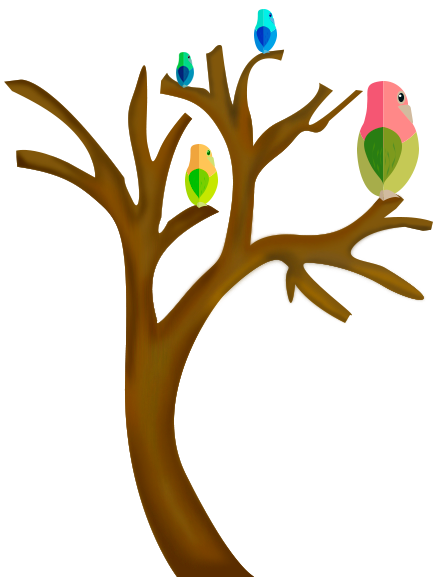
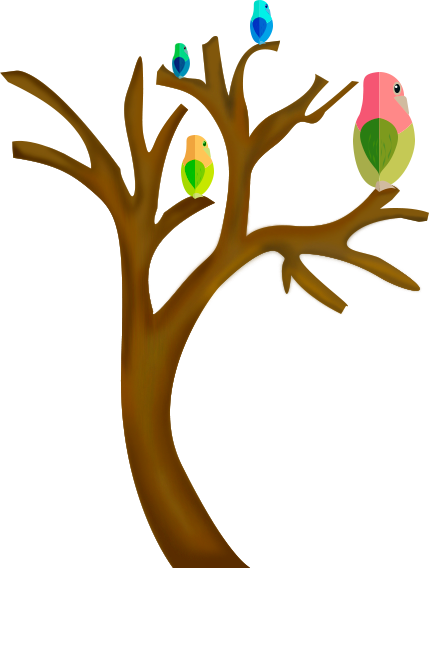
Leaves falling

Changed region(s): [[0.0, 0.0, 1.0, 1.0]]

diff --git a/css/main.css b/css/main.css
@@ -1,2 +1,2 @@
 /* normalize.css v3.0.2 | MIT License | git.io/normalize */
-html{font-family:sans-serif;-ms-text-size-adjust:100%;-webkit-text-size-adjust:100%}body{margin:0}article,aside,details,figcaption,figure,footer,header,hgroup,main,menu,nav,section,summary{display:block}audio,canvas,progress,video{display:inline-block;vertical-align:baseline}audio:not([controls]){display:none;height:0}[hidden],template{display:none}a{background-color:transparent;}a:active,a:hover{outline:0}abbr[title]{border-bottom:1px dotted}b,strong{font-weight:bold}dfn{font-style:italic}h1{font-size:2em;margin:.67em 0}mark{background:#ff0;color:#000}small{font-size:80%}sub,sup{font-size:75%;line-height:0;position:relative;vertical-align:baseline}sup{top:-.5em}sub{bottom:-.25em}img{border:0}svg:not(:root){overflow:hidden}figure{margin:1em 40px}hr{-moz-box-sizing:content-box;-webkit-box-sizing:content-box;-moz-box-sizing:content-box;box-sizing:content-box;height:0}pre{overflow:auto}code,kbd,pre,samp{font-family:monospace,monospace;font-size:1em}button,input,optgroup,select,textarea{color:inherit;font:inherit;margin:0}button{overflow:visible}button,select{text-transform:none}button,html input[type="button"],input[type="reset"],input[type="submit"]{-webkit-appearance:button;cursor:pointer}button[disabled],html input[disabled]{cursor:default}button::-moz-focus-inner,input::-moz-focus-inner{border:0;padding:0}input{line-height:normal}input[type="checkbox"],input[type="radio"]{-webkit-box-sizing:border-box;-moz-box-sizing:border-box;box-sizing:border-box;padding:0}input[type="number"]::-webkit-inner-spin-button,input[type="number"]::-webkit-outer-spin-button{height:auto}input[type="search"]{-webkit-appearance:textfield;-moz-box-sizing:content-box;-webkit-box-sizing:content-box;-webkit-box-sizing:content-box;-moz-box-sizing:content-box;box-sizing:content-box}input[type="search"]::-webkit-search-cancel-button,input[type="search"]::-webkit-search-decoration{-webkit-appearance:none}fieldset{border:1px solid #c0c0c0;margin:0 2px;padding:.35em .625em .75em}legend{border:0;padding:0}textarea{overflow:auto}optgroup{font-weight:bold}table{border-collapse:collapse;border-spacing:0}td,th{padding:0}body{font-size:16px;margin:0;padding:0}.container{position:relative;max-width:1800px;min-height:500px;overflow:hidden}#containerFirst{background:-webkit-linear-gradient(top, #a8d9ff, 75%, #fff);background:-moz-linear-gradient(top, #a8d9ff, 75%, #fff);background:-o-linear-gradient(top, #a8d9ff, 75%, #fff);background:-ms-linear-gradient(top, #a8d9ff, 75%, #fff);background:linear-gradient(to bottom, #a8d9ff, 75%, #fff)}.layer img{position:absolute}.imgCloud{top:0}.imgMountain{margin-left:-100px;margin-right:-100px}.birds{top:0;left:0}.imgTree{left:-100px;top:300px}.fallingLeaves{background-image:url("img/background/hojas.png");background:#f00;height:100px;width:100px;position:absolute}#menu{top:0;left:0}ul{padding:0;margin:0}.floating-right{-webkit-animation-name:floating-right;-moz-animation-name:floating-right;-o-animation-name:floating-right;-ms-animation-name:floating-right;animation-name:floating-right;-webkit-animation-duration:10s;-moz-animation-duration:10s;-o-animation-duration:10s;-ms-animation-duration:10s;animation-duration:10s;-webkit-animation-iteration-count:infinite;-moz-animation-iteration-count:infinite;-o-animation-iteration-count:infinite;-ms-animation-iteration-count:infinite;animation-iteration-count:infinite}.floating-left{-webkit-animation-name:floating-left;-moz-animation-name:floating-left;-o-animation-name:floating-left;-ms-animation-name:floating-left;animation-name:floating-left;-webkit-animation-duration:10s;-moz-animation-duration:10s;-o-animation-duration:10s;-ms-animation-duration:10s;animation-duration:10s;-webkit-animation-iteration-count:infinite;-moz-animation-iteration-count:infinite;-o-animation-iteration-count:infinite;-ms-animation-iteration-count:infinite;animation-iteration-count:infinite}.hatch{-webkit-animation-name:hatch;-moz-animation-name:hatch;-o-animation-name:hatch;-ms-animation-name:hatch;animation-name:hatch;-webkit-animation-duration:15s;-moz-animation-duration:15s;-o-animation-duration:15s;-ms-animation-duration:15s;animation-duration:15s;-webkit-animation-timing-function:ease-in-out;-moz-animation-timing-function:ease-in-out;-o-animation-timing-function:ease-in-out;-ms-animation-timing-function:ease-in-out;animation-timing-function:ease-in-out;-webkit-animation-iteration-count:infinite;-moz-animation-iteration-count:infinite;-o-animation-iteration-count:infinite;-ms-animation-iteration-count:infinite;animation-iteration-count:infinite;-webkit-transform-origin:50% 100%;-moz-transform-origin:50% 100%;-o-transform-origin:50% 100%;-ms-transform-origin:50% 100%;transform-origin:50% 100%;visibility:visible}.slideRight{-webkit-animation-name:slideRight;-moz-animation-name:slideRight;-o-animation-name:slideRight;-ms-animation-name:slideRight;animation-name:slideRight;-webkit-animation-duration:20s;-moz-animation-duration:20s;-o-animation-duration:20s;-ms-animation-duration:20s;animation-duration:20s;-webkit-animation-timing-function:ease-in-out;-moz-animation-timing-function:ease-in-out;-o-animation-timing-function:ease-in-out;-ms-animation-timing-function:ease-in-out;animation-timing-function:ease-in-out;-webkit-animation-iteration-count:infinite;-moz-animation-iteration-count:infinite;-o-animation-iteration-count:infinite;-ms-animation-iteration-count:infinite;animation-iteration-count:infinite;visibility:visible}.falling{-webkit-animation-name:falling;-moz-animation-name:falling;-o-animation-name:falling;-ms-animation-name:falling;animation-name:falling;-webkit-animation-duration:8s;-moz-animation-duration:8s;-o-animation-duration:8s;-ms-animation-duration:8s;animation-duration:8s;-webkit-animation-iteration-count:infinite;-moz-animation-iteration-count:infinite;-o-animation-iteration-count:infinite;-ms-animation-iteration-count:infinite;animation-iteration-count:infinite;-webkit-animation-timing-function:linear;-moz-animation-timing-function:linear;-o-animation-timing-function:linear;-ms-animation-timing-function:linear;animation-timing-function:linear;-webkit-animation-direction:normal;-moz-animation-direction:normal;-o-animation-direction:normal;-ms-animation-direction:normal;animation-direction:normal}@-moz-keyframes floating-right{0%{-webkit-transform:translate(0%);-moz-transform:translate(0%);-o-transform:translate(0%);-ms-transform:translate(0%);transform:translate(0%)}50%{-webkit-transform:translate(8%);-moz-transform:translate(8%);-o-transform:translate(8%);-ms-transform:translate(8%);transform:translate(8%)}100%{-webkit-transform:translate(0%);-moz-transform:translate(0%);-o-transform:translate(0%);-ms-transform:translate(0%);transform:translate(0%)}}@-webkit-keyframes floating-right{0%{-webkit-transform:translate(0%);-moz-transform:translate(0%);-o-transform:translate(0%);-ms-transform:translate(0%);transform:translate(0%)}50%{-webkit-transform:translate(8%);-moz-transform:translate(8%);-o-transform:translate(8%);-ms-transform:translate(8%);transform:translate(8%)}100%{-webkit-transform:translate(0%);-moz-transform:translate(0%);-o-transform:translate(0%);-ms-transform:translate(0%);transform:translate(0%)}}@-o-keyframes floating-right{0%{-webkit-transform:translate(0%);-moz-transform:translate(0%);-o-transform:translate(0%);-ms-transform:translate(0%);transform:translate(0%)}50%{-webkit-transform:translate(8%);-moz-transform:translate(8%);-o-transform:translate(8%);-ms-transform:translate(8%);transform:translate(8%)}100%{-webkit-transform:translate(0%);-moz-transform:translate(0%);-o-transform:translate(0%);-ms-transform:translate(0%);transform:translate(0%)}}@keyframes floating-right{0%{-webkit-transform:translate(0%);-moz-transform:translate(0%);-o-transform:translate(0%);-ms-transform:translate(0%);transform:translate(0%)}50%{-webkit-transform:translate(8%);-moz-transform:translate(8%);-o-transform:translate(8%);-ms-transform:translate(8%);transform:translate(8%)}100%{-webkit-transform:translate(0%);-moz-transform:translate(0%);-o-transform:translate(0%);-ms-transform:translate(0%);transform:translate(0%)}}@-moz-keyframes floating-left{0%{-webkit-transform:translate(0%);-moz-transform:translate(0%);-o-transform:translate(0%);-ms-transform:translate(0%);transform:translate(0%)}50%{-webkit-transform:translate(-8%);-moz-transform:translate(-8%);-o-transform:translate(-8%);-ms-transform:translate(-8%);transform:translate(-8%)}100%{-webkit-transform:translate(0%);-moz-transform:translate(0%);-o-transform:translate(0%);-ms-transform:translate(0%);transform:translate(0%)}}@-webkit-keyframes floating-left{0%{-webkit-transform:translate(0%);-moz-transform:translate(0%);-o-transform:translate(0%);-ms-transform:translate(0%);transform:translate(0%)}50%{-webkit-transform:translate(-8%);-moz-transform:translate(-8%);-o-transform:translate(-8%);-ms-transform:translate(-8%);transform:translate(-8%)}100%{-webkit-transform:translate(0%);-moz-transform:translate(0%);-o-transform:translate(0%);-ms-transform:translate(0%);transform:translate(0%)}}@-o-keyframes floating-left{0%{-webkit-transform:translate(0%);-moz-transform:translate(0%);-o-transform:translate(0%);-ms-transform:translate(0%);transform:translate(0%)}50%{-webkit-transform:translate(-8%);-moz-transform:translate(-8%);-o-transform:translate(-8%);-ms-transform:translate(-8%);transform:translate(-8%)}100%{-webkit-transform:translate(0%);-moz-transform:translate(0%);-o-transform:translate(0%);-ms-transform:translate(0%);transform:translate(0%)}}@keyframes floating-left{0%{-webkit-transform:translate(0%);-moz-transform:translate(0%);-o-transform:translate(0%);-ms-transform:translate(0%);transform:translate(0%)}50%{-webkit-transform:translate(-8%);-moz-transform:translate(-8%);-o-transform:translate(-8%);-ms-transform:translate(-8%);transform:translate(-8%)}100%{-webkit-transform:translate(0%);-moz-transform:translate(0%);-o-transform:translate(0%);-ms-transform:translate(0%);transform:translate(0%)}}@-moz-keyframes hatch{0%{-webkit-transform:rotate(0);-moz-transform:rotate(0);-o-transform:rotate(0);-ms-transform:rotate(0);transform:rotate(0)}20%{-webkit-transform:rotate(-2deg);-moz-transform:rotate(-2deg);-o-transform:rotate(-2deg);-ms-transform:rotate(-2deg);transform:rotate(-2deg)}35%{-webkit-transform:rotate(2deg);-moz-transform:rotate(2deg);-o-transform:rotate(2deg);-ms-transform:rotate(2deg);transform:rotate(2deg)}50%{-webkit-transform:rotate(-2deg);-moz-transform:rotate(-2deg);-o-transform:rotate(-2deg);-ms-transform:rotate(-2deg);transform:rotate(-2deg)}65%{-webkit-transform:rotate(1deg);-moz-transform:rotate(1deg);-o-transform:rotate(1deg);-ms-transform:rotate(1deg);transform:rotate(1deg)}80%{-webkit-transform:rotate(-1deg);-moz-transform:rotate(-1deg);-o-transform:rotate(-1deg);-ms-transform:rotate(-1deg);transform:rotate(-1deg)}100%{-webkit-transform:rotate(0);-moz-transform:rotate(0);-o-transform:rotate(0);-ms-transform:rotate(0);transform:rotate(0)}}@-webkit-keyframes hatch{0%{-webkit-transform:rotate(0);-moz-transform:rotate(0);-o-transform:rotate(0);-ms-transform:rotate(0);transform:rotate(0)}20%{-webkit-transform:rotate(-2deg);-moz-transform:rotate(-2deg);-o-transform:rotate(-2deg);-ms-transform:rotate(-2deg);transform:rotate(-2deg)}35%{-webkit-transform:rotate(2deg);-moz-transform:rotate(2deg);-o-transform:rotate(2deg);-ms-transform:rotate(2deg);transform:rotate(2deg)}50%{-webkit-transform:rotate(-2deg);-moz-transform:rotate(-2deg);-o-transform:rotate(-2deg);-ms-transform:rotate(-2deg);transform:rotate(-2deg)}65%{-webkit-transform:rotate(1deg);-moz-transform:rotate(1deg);-o-transform:rotate(1deg);-ms-transform:rotate(1deg);transform:rotate(1deg)}80%{-webkit-transform:rotate(-1deg);-moz-transform:rotate(-1deg);-o-transform:rotate(-1deg);-ms-transform:rotate(-1deg);transform:rotate(-1deg)}100%{-webkit-transform:rotate(0);-moz-transform:rotate(0);-o-transform:rotate(0);-ms-transform:rotate(0);transform:rotate(0)}}@-o-keyframes hatch{0%{-webkit-transform:rotate(0);-moz-transform:rotate(0);-o-transform:rotate(0);-ms-transform:rotate(0);transform:rotate(0)}20%{-webkit-transform:rotate(-2deg);-moz-transform:rotate(-2deg);-o-transform:rotate(-2deg);-ms-transform:rotate(-2deg);transform:rotate(-2deg)}35%{-webkit-transform:rotate(2deg);-moz-transform:rotate(2deg);-o-transform:rotate(2deg);-ms-transform:rotate(2deg);transform:rotate(2deg)}50%{-webkit-transform:rotate(-2deg);-moz-transform:rotate(-2deg);-o-transform:rotate(-2deg);-ms-transform:rotate(-2deg);transform:rotate(-2deg)}65%{-webkit-transform:rotate(1deg);-moz-transform:rotate(1deg);-o-transform:rotate(1deg);-ms-transform:rotate(1deg);transform:rotate(1deg)}80%{-webkit-transform:rotate(-1deg);-moz-transform:rotate(-1deg);-o-transform:rotate(-1deg);-ms-transform:rotate(-1deg);transform:rotate(-1deg)}100%{-webkit-transform:rotate(0);-moz-transform:rotate(0);-o-transform:rotate(0);-ms-transform:rotate(0);transform:rotate(0)}}@keyframes hatch{0%{-webkit-transform:rotate(0);-moz-transform:rotate(0);-o-transform:rotate(0);-ms-transform:rotate(0);transform:rotate(0)}20%{-webkit-transform:rotate(-2deg);-moz-transform:rotate(-2deg);-o-transform:rotate(-2deg);-ms-transform:rotate(-2deg);transform:rotate(-2deg)}35%{-webkit-transform:rotate(2deg);-moz-transform:rotate(2deg);-o-transform:rotate(2deg);-ms-transform:rotate(2deg);transform:rotate(2deg)}50%{-webkit-transform:rotate(-2deg);-moz-transform:rotate(-2deg);-o-transform:rotate(-2deg);-ms-transform:rotate(-2deg);transform:rotate(-2deg)}65%{-webkit-transform:rotate(1deg);-moz-transform:rotate(1deg);-o-transform:rotate(1deg);-ms-transform:rotate(1deg);transform:rotate(1deg)}80%{-webkit-transform:rotate(-1deg);-moz-transform:rotate(-1deg);-o-transform:rotate(-1deg);-ms-transform:rotate(-1deg);transform:rotate(-1deg)}100%{-webkit-transform:rotate(0);-moz-transform:rotate(0);-o-transform:rotate(0);-ms-transform:rotate(0);transform:rotate(0)}}@-moz-keyframes slideRight{0%{-webkit-transform:translateX(0%) scale(.5);-moz-transform:translateX(0%) scale(.5);-o-transform:translateX(0%) scale(.5);-ms-transform:translateX(0%) scale(.5);transform:translateX(0%) scale(.5);opacity:0;-ms-filter:"progid:DXImageTransform.Microsoft.Alpha(Opacity=0)";filter:alpha(opacity=0)}100%{-webkit-transform:translateX(100%) scale(1);-moz-transform:translateX(100%) scale(1);-o-transform:translateX(100%) scale(1);-ms-transform:translateX(100%) scale(1);transform:translateX(100%) scale(1);opacity:1;-ms-filter:none;filter:none}}@-webkit-keyframes slideRight{0%{-webkit-transform:translateX(0%) scale(.5);-moz-transform:translateX(0%) scale(.5);-o-transform:translateX(0%) scale(.5);-ms-transform:translateX(0%) scale(.5);transform:translateX(0%) scale(.5);opacity:0;-ms-filter:"progid:DXImageTransform.Microsoft.Alpha(Opacity=0)";filter:alpha(opacity=0)}100%{-webkit-transform:translateX(100%) scale(1);-moz-transform:translateX(100%) scale(1);-o-transform:translateX(100%) scale(1);-ms-transform:translateX(100%) scale(1);transform:translateX(100%) scale(1);opacity:1;-ms-filter:none;filter:none}}@-o-keyframes slideRight{0%{-webkit-transform:translateX(0%) scale(.5);-moz-transform:translateX(0%) scale(.5);-o-transform:translateX(0%) scale(.5);-ms-transform:translateX(0%) scale(.5);transform:translateX(0%) scale(.5);opacity:0;-ms-filter:"progid:DXImageTransform.Microsoft.Alpha(Opacity=0)";filter:alpha(opacity=0)}100%{-webkit-transform:translateX(100%) scale(1);-moz-transform:translateX(100%) scale(1);-o-transform:translateX(100%) scale(1);-ms-transform:translateX(100%) scale(1);transform:translateX(100%) scale(1);opacity:1;-ms-filter:none;filter:none}}@keyframes slideRight{0%{-webkit-transform:translateX(0%) scale(.5);-moz-transform:translateX(0%) scale(.5);-o-transform:translateX(0%) scale(.5);-ms-transform:translateX(0%) scale(.5);transform:translateX(0%) scale(.5);opacity:0;-ms-filter:"progid:DXImageTransform.Microsoft.Alpha(Opacity=0)";filter:alpha(opacity=0)}100%{-webkit-transform:translateX(100%) scale(1);-moz-transform:translateX(100%) scale(1);-o-transform:translateX(100%) scale(1);-ms-transform:translateX(100%) scale(1);transform:translateX(100%) scale(1);opacity:1;-ms-filter:none;filter:none}}@-moz-keyframes falling{0%{opacity:1;-ms-filter:none;filter:none;-webkit-transform:translateY(-10%);-moz-transform:translateY(-10%);-o-transform:translateY(-10%);-ms-transform:translateY(-10%);transform:translateY(-10%)}100%{opacity:.5;-ms-filter:"progid:DXImageTransform.Microsoft.Alpha(Opacity=50)";filter:alpha(opacity=50);-webkit-transform:translateY(100%);-moz-transform:translateY(100%);-o-transform:translateY(100%);-ms-transform:translateY(100%);transform:translateY(100%)}}@-webkit-keyframes falling{0%{opacity:1;-ms-filter:none;filter:none;-webkit-transform:translateY(-10%);-moz-transform:translateY(-10%);-o-transform:translateY(-10%);-ms-transform:translateY(-10%);transform:translateY(-10%)}100%{opacity:.5;-ms-filter:"progid:DXImageTransform.Microsoft.Alpha(Opacity=50)";filter:alpha(opacity=50);-webkit-transform:translateY(100%);-moz-transform:translateY(100%);-o-transform:translateY(100%);-ms-transform:translateY(100%);transform:translateY(100%)}}@-o-keyframes falling{0%{opacity:1;-ms-filter:none;filter:none;-webkit-transform:translateY(-10%);-moz-transform:translateY(-10%);-o-transform:translateY(-10%);-ms-transform:translateY(-10%);transform:translateY(-10%)}100%{opacity:.5;-ms-filter:"progid:DXImageTransform.Microsoft.Alpha(Opacity=50)";filter:alpha(opacity=50);-webkit-transform:translateY(100%);-moz-transform:translateY(100%);-o-transform:translateY(100%);-ms-transform:translateY(100%);transform:translateY(100%)}}@keyframes falling{0%{opacity:1;-ms-filter:none;filter:none;-webkit-transform:translateY(-10%);-moz-transform:translateY(-10%);-o-transform:translateY(-10%);-ms-transform:translateY(-10%);transform:translateY(-10%)}100%{opacity:.5;-ms-filter:"progid:DXImageTransform.Microsoft.Alpha(Opacity=50)";filter:alpha(opacity=50);-webkit-transform:translateY(100%);-moz-transform:translateY(100%);-o-transform:translateY(100%);-ms-transform:translateY(100%);transform:translateY(100%)}}
+html{font-family:sans-serif;-ms-text-size-adjust:100%;-webkit-text-size-adjust:100%}body{margin:0}article,aside,details,figcaption,figure,footer,header,hgroup,main,menu,nav,section,summary{display:block}audio,canvas,progress,video{display:inline-block;vertical-align:baseline}audio:not([controls]){display:none;height:0}[hidden],template{display:none}a{background-color:transparent;}a:active,a:hover{outline:0}abbr[title]{border-bottom:1px dotted}b,strong{font-weight:bold}dfn{font-style:italic}h1{font-size:2em;margin:.67em 0}mark{background:#ff0;color:#000}small{font-size:80%}sub,sup{font-size:75%;line-height:0;position:relative;vertical-align:baseline}sup{top:-.5em}sub{bottom:-.25em}img{border:0}svg:not(:root){overflow:hidden}figure{margin:1em 40px}hr{-moz-box-sizing:content-box;-webkit-box-sizing:content-box;-moz-box-sizing:content-box;box-sizing:content-box;height:0}pre{overflow:auto}code,kbd,pre,samp{font-family:monospace,monospace;font-size:1em}button,input,optgroup,select,textarea{color:inherit;font:inherit;margin:0}button{overflow:visible}button,select{text-transform:none}button,html input[type="button"],input[type="reset"],input[type="submit"]{-webkit-appearance:button;cursor:pointer}button[disabled],html input[disabled]{cursor:default}button::-moz-focus-inner,input::-moz-focus-inner{border:0;padding:0}input{line-height:normal}input[type="checkbox"],input[type="radio"]{-webkit-box-sizing:border-box;-moz-box-sizing:border-box;box-sizing:border-box;padding:0}input[type="number"]::-webkit-inner-spin-button,input[type="number"]::-webkit-outer-spin-button{height:auto}input[type="search"]{-webkit-appearance:textfield;-moz-box-sizing:content-box;-webkit-box-sizing:content-box;-webkit-box-sizing:content-box;-moz-box-sizing:content-box;box-sizing:content-box}input[type="search"]::-webkit-search-cancel-button,input[type="search"]::-webkit-search-decoration{-webkit-appearance:none}fieldset{border:1px solid #c0c0c0;margin:0 2px;padding:.35em .625em .75em}legend{border:0;padding:0}textarea{overflow:auto}optgroup{font-weight:bold}table{border-collapse:collapse;border-spacing:0}td,th{padding:0}body{font-size:16px;margin:0;padding:0}.container{position:relative;max-width:1800px;min-height:500px;overflow:hidden}#containerFirst{background:-webkit-linear-gradient(top, #a8d9ff, 75%, #fff);background:-moz-linear-gradient(top, #a8d9ff, 75%, #fff);background:-o-linear-gradient(top, #a8d9ff, 75%, #fff);background:-ms-linear-gradient(top, #a8d9ff, 75%, #fff);background:linear-gradient(to bottom, #a8d9ff, 75%, #fff)}.layer img{position:absolute}.imgCloud{top:0}.imgMountain{margin-left:-100px;margin-right:-100px}.birds{top:0;left:0}.imgTree{left:-100px;top:15em;width:20em}#fallingLeaves{background-image:url("../img/background/hojas.png");background-repeat:no-repeat;position:absolute;left:0}#menu{top:0;left:0}ul{padding:0;margin:0}.floating-right{-webkit-animation-name:floating-right;-moz-animation-name:floating-right;-o-animation-name:floating-right;-ms-animation-name:floating-right;animation-name:floating-right;-webkit-animation-duration:10s;-moz-animation-duration:10s;-o-animation-duration:10s;-ms-animation-duration:10s;animation-duration:10s;-webkit-animation-iteration-count:infinite;-moz-animation-iteration-count:infinite;-o-animation-iteration-count:infinite;-ms-animation-iteration-count:infinite;animation-iteration-count:infinite}.floating-left{-webkit-animation-name:floating-left;-moz-animation-name:floating-left;-o-animation-name:floating-left;-ms-animation-name:floating-left;animation-name:floating-left;-webkit-animation-duration:10s;-moz-animation-duration:10s;-o-animation-duration:10s;-ms-animation-duration:10s;animation-duration:10s;-webkit-animation-iteration-count:infinite;-moz-animation-iteration-count:infinite;-o-animation-iteration-count:infinite;-ms-animation-iteration-count:infinite;animation-iteration-count:infinite}.hatch{-webkit-animation-name:hatch;-moz-animation-name:hatch;-o-animation-name:hatch;-ms-animation-name:hatch;animation-name:hatch;-webkit-animation-duration:15s;-moz-animation-duration:15s;-o-animation-duration:15s;-ms-animation-duration:15s;animation-duration:15s;-webkit-animation-timing-function:ease-in-out;-moz-animation-timing-function:ease-in-out;-o-animation-timing-function:ease-in-out;-ms-animation-timing-function:ease-in-out;animation-timing-function:ease-in-out;-webkit-animation-iteration-count:infinite;-moz-animation-iteration-count:infinite;-o-animation-iteration-count:infinite;-ms-animation-iteration-count:infinite;animation-iteration-count:infinite;-webkit-transform-origin:50% 100%;-moz-transform-origin:50% 100%;-o-transform-origin:50% 100%;-ms-transform-origin:50% 100%;transform-origin:50% 100%;visibility:visible}.slideRight{-webkit-animation-name:slideRight;-moz-animation-name:slideRight;-o-animation-name:slideRight;-ms-animation-name:slideRight;animation-name:slideRight;-webkit-animation-duration:20s;-moz-animation-duration:20s;-o-animation-duration:20s;-ms-animation-duration:20s;animation-duration:20s;-webkit-animation-timing-function:ease-in-out;-moz-animation-timing-function:ease-in-out;-o-animation-timing-function:ease-in-out;-ms-animation-timing-function:ease-in-out;animation-timing-function:ease-in-out;-webkit-animation-iteration-count:infinite;-moz-animation-iteration-count:infinite;-o-animation-iteration-count:infinite;-ms-animation-iteration-count:infinite;animation-iteration-count:infinite;visibility:visible}.falling{-webkit-animation-name:falling;-moz-animation-name:falling;-o-animation-name:falling;-ms-animation-name:falling;animation-name:falling;-webkit-animation-duration:8s;-moz-animation-duration:8s;-o-animation-duration:8s;-ms-animation-duration:8s;animation-duration:8s;-webkit-animation-iteration-count:infinite;-moz-animation-iteration-count:infinite;-o-animation-iteration-count:infinite;-ms-animation-iteration-count:infinite;animation-iteration-count:infinite;-webkit-animation-timing-function:linear;-moz-animation-timing-function:linear;-o-animation-timing-function:linear;-ms-animation-timing-function:linear;animation-timing-function:linear;-webkit-animation-direction:normal;-moz-animation-direction:normal;-o-animation-direction:normal;-ms-animation-direction:normal;animation-direction:normal}@-moz-keyframes floating-right{0%{-webkit-transform:translate(0%);-moz-transform:translate(0%);-o-transform:translate(0%);-ms-transform:translate(0%);transform:translate(0%)}50%{-webkit-transform:translate(8%);-moz-transform:translate(8%);-o-transform:translate(8%);-ms-transform:translate(8%);transform:translate(8%)}100%{-webkit-transform:translate(0%);-moz-transform:translate(0%);-o-transform:translate(0%);-ms-transform:translate(0%);transform:translate(0%)}}@-webkit-keyframes floating-right{0%{-webkit-transform:translate(0%);-moz-transform:translate(0%);-o-transform:translate(0%);-ms-transform:translate(0%);transform:translate(0%)}50%{-webkit-transform:translate(8%);-moz-transform:translate(8%);-o-transform:translate(8%);-ms-transform:translate(8%);transform:translate(8%)}100%{-webkit-transform:translate(0%);-moz-transform:translate(0%);-o-transform:translate(0%);-ms-transform:translate(0%);transform:translate(0%)}}@-o-keyframes floating-right{0%{-webkit-transform:translate(0%);-moz-transform:translate(0%);-o-transform:translate(0%);-ms-transform:translate(0%);transform:translate(0%)}50%{-webkit-transform:translate(8%);-moz-transform:translate(8%);-o-transform:translate(8%);-ms-transform:translate(8%);transform:translate(8%)}100%{-webkit-transform:translate(0%);-moz-transform:translate(0%);-o-transform:translate(0%);-ms-transform:translate(0%);transform:translate(0%)}}@keyframes floating-right{0%{-webkit-transform:translate(0%);-moz-transform:translate(0%);-o-transform:translate(0%);-ms-transform:translate(0%);transform:translate(0%)}50%{-webkit-transform:translate(8%);-moz-transform:translate(8%);-o-transform:translate(8%);-ms-transform:translate(8%);transform:translate(8%)}100%{-webkit-transform:translate(0%);-moz-transform:translate(0%);-o-transform:translate(0%);-ms-transform:translate(0%);transform:translate(0%)}}@-moz-keyframes floating-left{0%{-webkit-transform:translate(0%);-moz-transform:translate(0%);-o-transform:translate(0%);-ms-transform:translate(0%);transform:translate(0%)}50%{-webkit-transform:translate(-8%);-moz-transform:translate(-8%);-o-transform:translate(-8%);-ms-transform:translate(-8%);transform:translate(-8%)}100%{-webkit-transform:translate(0%);-moz-transform:translate(0%);-o-transform:translate(0%);-ms-transform:translate(0%);transform:translate(0%)}}@-webkit-keyframes floating-left{0%{-webkit-transform:translate(0%);-moz-transform:translate(0%);-o-transform:translate(0%);-ms-transform:translate(0%);transform:translate(0%)}50%{-webkit-transform:translate(-8%);-moz-transform:translate(-8%);-o-transform:translate(-8%);-ms-transform:translate(-8%);transform:translate(-8%)}100%{-webkit-transform:translate(0%);-moz-transform:translate(0%);-o-transform:translate(0%);-ms-transform:translate(0%);transform:translate(0%)}}@-o-keyframes floating-left{0%{-webkit-transform:translate(0%);-moz-transform:translate(0%);-o-transform:translate(0%);-ms-transform:translate(0%);transform:translate(0%)}50%{-webkit-transform:translate(-8%);-moz-transform:translate(-8%);-o-transform:translate(-8%);-ms-transform:translate(-8%);transform:translate(-8%)}100%{-webkit-transform:translate(0%);-moz-transform:translate(0%);-o-transform:translate(0%);-ms-transform:translate(0%);transform:translate(0%)}}@keyframes floating-left{0%{-webkit-transform:translate(0%);-moz-transform:translate(0%);-o-transform:translate(0%);-ms-transform:translate(0%);transform:translate(0%)}50%{-webkit-transform:translate(-8%);-moz-transform:translate(-8%);-o-transform:translate(-8%);-ms-transform:translate(-8%);transform:translate(-8%)}100%{-webkit-transform:translate(0%);-moz-transform:translate(0%);-o-transform:translate(0%);-ms-transform:translate(0%);transform:translate(0%)}}@-moz-keyframes hatch{0%{-webkit-transform:rotate(0);-moz-transform:rotate(0);-o-transform:rotate(0);-ms-transform:rotate(0);transform:rotate(0)}20%{-webkit-transform:rotate(-2deg);-moz-transform:rotate(-2deg);-o-transform:rotate(-2deg);-ms-transform:rotate(-2deg);transform:rotate(-2deg)}35%{-webkit-transform:rotate(2deg);-moz-transform:rotate(2deg);-o-transform:rotate(2deg);-ms-transform:rotate(2deg);transform:rotate(2deg)}50%{-webkit-transform:rotate(-2deg);-moz-transform:rotate(-2deg);-o-transform:rotate(-2deg);-ms-transform:rotate(-2deg);transform:rotate(-2deg)}65%{-webkit-transform:rotate(1deg);-moz-transform:rotate(1deg);-o-transform:rotate(1deg);-ms-transform:rotate(1deg);transform:rotate(1deg)}80%{-webkit-transform:rotate(-1deg);-moz-transform:rotate(-1deg);-o-transform:rotate(-1deg);-ms-transform:rotate(-1deg);transform:rotate(-1deg)}100%{-webkit-transform:rotate(0);-moz-transform:rotate(0);-o-transform:rotate(0);-ms-transform:rotate(0);transform:rotate(0)}}@-webkit-keyframes hatch{0%{-webkit-transform:rotate(0);-moz-transform:rotate(0);-o-transform:rotate(0);-ms-transform:rotate(0);transform:rotate(0)}20%{-webkit-transform:rotate(-2deg);-moz-transform:rotate(-2deg);-o-transform:rotate(-2deg);-ms-transform:rotate(-2deg);transform:rotate(-2deg)}35%{-webkit-transform:rotate(2deg);-moz-transform:rotate(2deg);-o-transform:rotate(2deg);-ms-transform:rotate(2deg);transform:rotate(2deg)}50%{-webkit-transform:rotate(-2deg);-moz-transform:rotate(-2deg);-o-transform:rotate(-2deg);-ms-transform:rotate(-2deg);transform:rotate(-2deg)}65%{-webkit-transform:rotate(1deg);-moz-transform:rotate(1deg);-o-transform:rotate(1deg);-ms-transform:rotate(1deg);transform:rotate(1deg)}80%{-webkit-transform:rotate(-1deg);-moz-transform:rotate(-1deg);-o-transform:rotate(-1deg);-ms-transform:rotate(-1deg);transform:rotate(-1deg)}100%{-webkit-transform:rotate(0);-moz-transform:rotate(0);-o-transform:rotate(0);-ms-transform:rotate(0);transform:rotate(0)}}@-o-keyframes hatch{0%{-webkit-transform:rotate(0);-moz-transform:rotate(0);-o-transform:rotate(0);-ms-transform:rotate(0);transform:rotate(0)}20%{-webkit-transform:rotate(-2deg);-moz-transform:rotate(-2deg);-o-transform:rotate(-2deg);-ms-transform:rotate(-2deg);transform:rotate(-2deg)}35%{-webkit-transform:rotate(2deg);-moz-transform:rotate(2deg);-o-transform:rotate(2deg);-ms-transform:rotate(2deg);transform:rotate(2deg)}50%{-webkit-transform:rotate(-2deg);-moz-transform:rotate(-2deg);-o-transform:rotate(-2deg);-ms-transform:rotate(-2deg);transform:rotate(-2deg)}65%{-webkit-transform:rotate(1deg);-moz-transform:rotate(1deg);-o-transform:rotate(1deg);-ms-transform:rotate(1deg);transform:rotate(1deg)}80%{-webkit-transform:rotate(-1deg);-moz-transform:rotate(-1deg);-o-transform:rotate(-1deg);-ms-transform:rotate(-1deg);transform:rotate(-1deg)}100%{-webkit-transform:rotate(0);-moz-transform:rotate(0);-o-transform:rotate(0);-ms-transform:rotate(0);transform:rotate(0)}}@keyframes hatch{0%{-webkit-transform:rotate(0);-moz-transform:rotate(0);-o-transform:rotate(0);-ms-transform:rotate(0);transform:rotate(0)}20%{-webkit-transform:rotate(-2deg);-moz-transform:rotate(-2deg);-o-transform:rotate(-2deg);-ms-transform:rotate(-2deg);transform:rotate(-2deg)}35%{-webkit-transform:rotate(2deg);-moz-transform:rotate(2deg);-o-transform:rotate(2deg);-ms-transform:rotate(2deg);transform:rotate(2deg)}50%{-webkit-transform:rotate(-2deg);-moz-transform:rotate(-2deg);-o-transform:rotate(-2deg);-ms-transform:rotate(-2deg);transform:rotate(-2deg)}65%{-webkit-transform:rotate(1deg);-moz-transform:rotate(1deg);-o-transform:rotate(1deg);-ms-transform:rotate(1deg);transform:rotate(1deg)}80%{-webkit-transform:rotate(-1deg);-moz-transform:rotate(-1deg);-o-transform:rotate(-1deg);-ms-transform:rotate(-1deg);transform:rotate(-1deg)}100%{-webkit-transform:rotate(0);-moz-transform:rotate(0);-o-transform:rotate(0);-ms-transform:rotate(0);transform:rotate(0)}}@-moz-keyframes slideRight{0%{-webkit-transform:translateX(0%) scale(.5);-moz-transform:translateX(0%) scale(.5);-o-transform:translateX(0%) scale(.5);-ms-transform:translateX(0%) scale(.5);transform:translateX(0%) scale(.5);opacity:0;-ms-filter:"progid:DXImageTransform.Microsoft.Alpha(Opacity=0)";filter:alpha(opacity=0)}100%{-webkit-transform:translateX(100%) scale(1);-moz-transform:translateX(100%) scale(1);-o-transform:translateX(100%) scale(1);-ms-transform:translateX(100%) scale(1);transform:translateX(100%) scale(1);opacity:1;-ms-filter:none;filter:none}}@-webkit-keyframes slideRight{0%{-webkit-transform:translateX(0%) scale(.5);-moz-transform:translateX(0%) scale(.5);-o-transform:translateX(0%) scale(.5);-ms-transform:translateX(0%) scale(.5);transform:translateX(0%) scale(.5);opacity:0;-ms-filter:"progid:DXImageTransform.Microsoft.Alpha(Opacity=0)";filter:alpha(opacity=0)}100%{-webkit-transform:translateX(100%) scale(1);-moz-transform:translateX(100%) scale(1);-o-transform:translateX(100%) scale(1);-ms-transform:translateX(100%) scale(1);transform:translateX(100%) scale(1);opacity:1;-ms-filter:none;filter:none}}@-o-keyframes slideRight{0%{-webkit-transform:translateX(0%) scale(.5);-moz-transform:translateX(0%) scale(.5);-o-transform:translateX(0%) scale(.5);-ms-transform:translateX(0%) scale(.5);transform:translateX(0%) scale(.5);opacity:0;-ms-filter:"progid:DXImageTransform.Microsoft.Alpha(Opacity=0)";filter:alpha(opacity=0)}100%{-webkit-transform:translateX(100%) scale(1);-moz-transform:translateX(100%) scale(1);-o-transform:translateX(100%) scale(1);-ms-transform:translateX(100%) scale(1);transform:translateX(100%) scale(1);opacity:1;-ms-filter:none;filter:none}}@keyframes slideRight{0%{-webkit-transform:translateX(0%) scale(.5);-moz-transform:translateX(0%) scale(.5);-o-transform:translateX(0%) scale(.5);-ms-transform:translateX(0%) scale(.5);transform:translateX(0%) scale(.5);opacity:0;-ms-filter:"progid:DXImageTransform.Microsoft.Alpha(Opacity=0)";filter:alpha(opacity=0)}100%{-webkit-transform:translateX(100%) scale(1);-moz-transform:translateX(100%) scale(1);-o-transform:translateX(100%) scale(1);-ms-transform:translateX(100%) scale(1);transform:translateX(100%) scale(1);opacity:1;-ms-filter:none;filter:none}}@-moz-keyframes falling{0%{opacity:0;-ms-filter:"progid:DXImageTransform.Microsoft.Alpha(Opacity=0)";filter:alpha(opacity=0);background-position:-10px -200px}50%{opacity:1;-ms-filter:none;filter:none;background-position:10px 0}100%{background-position:-10px 200px}}@-webkit-keyframes falling{0%{opacity:0;-ms-filter:"progid:DXImageTransform.Microsoft.Alpha(Opacity=0)";filter:alpha(opacity=0);background-position:-10px -200px}50%{opacity:1;-ms-filter:none;filter:none;background-position:10px 0}100%{background-position:-10px 200px}}@-o-keyframes falling{0%{opacity:0;-ms-filter:"progid:DXImageTransform.Microsoft.Alpha(Opacity=0)";filter:alpha(opacity=0);background-position:-10px -200px}50%{opacity:1;-ms-filter:none;filter:none;background-position:10px 0}100%{background-position:-10px 200px}}@keyframes falling{0%{opacity:0;-ms-filter:"progid:DXImageTransform.Microsoft.Alpha(Opacity=0)";filter:alpha(opacity=0);background-position:-10px -200px}50%{opacity:1;-ms-filter:none;filter:none;background-position:10px 0}100%{background-position:-10px 200px}}

diff --git a/index.html b/index.html
@@ -26,8 +26,9 @@
 				<img class="imgMountain" src="img/background/pasto2.png" alt="">
 			</li>
 			<li class="layer" data-depth="0.60">
-				<img class="imgTree hatch" src="img/background/arbol.png" alt="" >
-				<img alt="" class="fallingLeaves falling" width="100px">
+				<img class="imgTree hatch" src="img/background/arbol.png" alt="">
+				<div id="fallingLeaves" class="falling">
+				</div>
 			</li>
 			<li class="layer" data-depth="0.60">
 				<img class="imgMountain" src="img/background/pasto1.png" alt="">
@@ -58,15 +59,31 @@
     	$('.imgMountain').css({ 
     		'width': $(window).width() + 200
     	});
-
+    	$('.imgCloud').css({ 
+    		'width': $(window).width() + 200
+    	});
+    	// Posicionar 3 layers Montañas
     	var imgMountain = $('.imgMountain');
 		var imgMountainHeight = imgMountain.height();
-
-		// alert(screenHeight + '+'+ imgMountainHeight);
+		
 		$('.imgMountain').css({
-			'top' : screenHeight - imgMountainHeight +25
+			'top' : screenHeight - imgMountainHeight + 25
 		});
-	});
+		// Posicionar arbol 
+		var tree = $('.imgTree');
+		var treeHeight = tree.height();
+
+		$('.imgTree').css({
+			'top' : screenHeight - treeHeight
+		});
+
+		$('#fallingLeaves').css({
+			'top' : screenHeight - treeHeight + 200,
+			'width' : tree.width(),
+			'height' : tree.height()
+
+		})
+	});debug();
 	</script>
 </body>
 </html>
